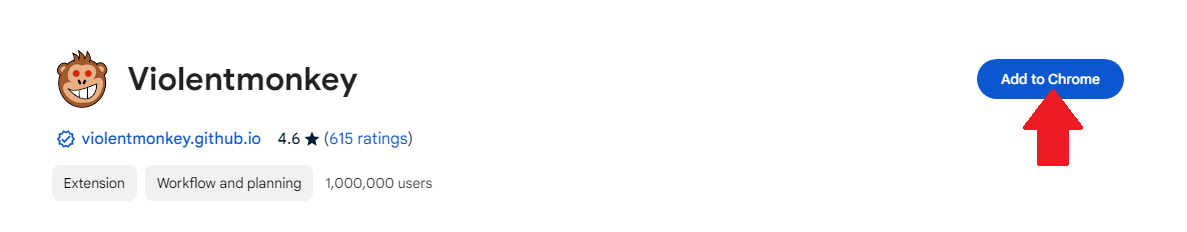
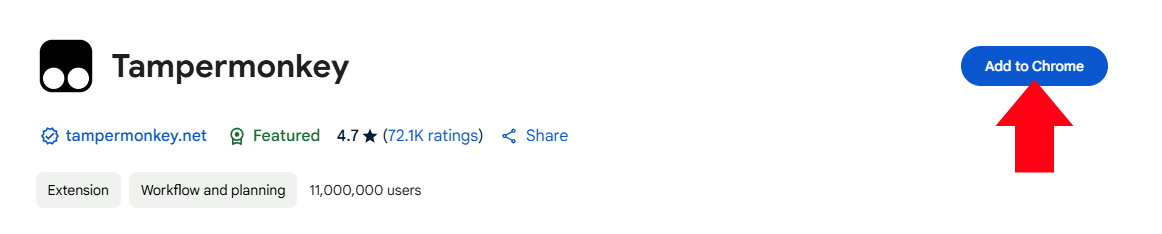
Migrated to Tampermonkey

diff --git a/install/achieve.html b/install/achieve.html
@@ -6,7 +6,7 @@
 	<link rel="stylesheet" href="style.css" type="text/css">
 </head>
 <body>
-	<a id="logo" href="/x">
+	<a id="logo" href="/mods">
 		<h1>XMODS</h1>
 	</a>
 	<div id="grid">
@@ -22,7 +22,7 @@
 			<div>
 				<img id="step1-1" src="img/step1-1.png">
 				<div style="position: relative; width: 20vw; height: calc(28vw * (304/508)); float: left;">
-					<a id="link-1" href="https://chromewebstore.google.com/detail/violentmonkey/jinjaccalgkegednnccohejagnlnfdag" target="_blank">Install</a>
+					<a id="link-1" href="https://chromewebstore.google.com/detail/tampermonkey/dhdgffkkebhmkfjojejmpbldmpobfkfo" target="_blank">Install</a>
 				</div>
 				<img id="step1-2" src="img/step1-2.png">
 				<a class="next" href="#step2">Next 🡒</a>

diff --git a/install/blooket.html b/install/blooket.html
@@ -6,7 +6,7 @@
 	<link rel="stylesheet" href="style.css" type="text/css">
 </head>
 <body>
-	<a id="logo" href="/x">
+	<a id="logo" href="/mods">
 		<h1>XMODS</h1>
 	</a>
 	<div id="grid">
@@ -22,7 +22,7 @@
 			<div>
 				<img id="step1-1" src="img/step1-1.png">
 				<div style="position: relative; width: 20vw; height: calc(28vw * (304/508)); float: left;">
-					<a id="link-1" href="https://chromewebstore.google.com/detail/violentmonkey/jinjaccalgkegednnccohejagnlnfdag" target="_blank">Install</a>
+					<a id="link-1" href="https://chromewebstore.google.com/detail/tampermonkey/dhdgffkkebhmkfjojejmpbldmpobfkfo" target="_blank">Install</a>
 				</div>
 				<img id="step1-2" src="img/step1-2.png">
 				<a class="next" href="#step2">Next 🡒</a>

diff --git a/install/chess.html b/install/chess.html
@@ -6,7 +6,7 @@
 	<link rel="stylesheet" href="style.css" type="text/css">
 </head>
 <body>
-	<a id="logo" href="/x">
+	<a id="logo" href="/mods">
 		<h1>XMODS</h1>
 	</a>
 	<div id="grid">
@@ -22,7 +22,7 @@
 			<div>
 				<img id="step1-1" src="img/step1-1.png">
 				<div style="position: relative; width: 20vw; height: calc(28vw * (304/508)); float: left;">
-					<a id="link-1" href="https://chromewebstore.google.com/detail/violentmonkey/jinjaccalgkegednnccohejagnlnfdag" target="_blank">Install</a>
+					<a id="link-1" href="https://chromewebstore.google.com/detail/tampermonkey/dhdgffkkebhmkfjojejmpbldmpobfkfo" target="_blank">Install</a>
 				</div>
 				<img id="step1-2" src="img/step1-2.png">
 				<a class="next" href="#step2">Next 🡒</a>

diff --git a/install/gimkit.html b/install/gimkit.html
@@ -6,7 +6,7 @@
 	<link rel="stylesheet" href="style.css" type="text/css">
 </head>
 <body>
-	<a id="logo" href="/x">
+	<a id="logo" href="/mods">
 		<h1>XMODS</h1>
 	</a>
 	<div id="grid">
@@ -22,7 +22,7 @@
 			<div>
 				<img id="step1-1" src="img/step1-1.png">
 				<div style="position: relative; width: 20vw; height: calc(28vw * (304/508)); float: left;">
-					<a id="link-1" href="https://chromewebstore.google.com/detail/violentmonkey/jinjaccalgkegednnccohejagnlnfdag" target="_blank">Install</a>
+					<a id="link-1" href="https://chromewebstore.google.com/detail/tampermonkey/dhdgffkkebhmkfjojejmpbldmpobfkfo" target="_blank">Install</a>
 				</div>
 				<img id="step1-2" src="img/step1-2.png">
 				<a class="next" href="#step2">Next 🡒</a>

diff --git a/install/krunker.html b/install/krunker.html
@@ -6,7 +6,7 @@
 	<link rel="stylesheet" href="style.css" type="text/css">
 </head>
 <body>
-	<a id="logo" href="/x">
+	<a id="logo" href="/mods">
 		<h1>XMODS</h1>
 	</a>
 	<div id="grid">
@@ -22,7 +22,7 @@
 			<div>
 				<img id="step1-1" src="img/step1-1.png">
 				<div style="position: relative; width: 20vw; height: calc(28vw * (304/508)); float: left;">
-					<a id="link-1" href="https://chromewebstore.google.com/detail/violentmonkey/jinjaccalgkegednnccohejagnlnfdag" target="_blank">Install</a>
+					<a id="link-1" href="https://chromewebstore.google.com/detail/tampermonkey/dhdgffkkebhmkfjojejmpbldmpobfkfo" target="_blank">Install</a>
 				</div>
 				<img id="step1-2" src="img/step1-2.png">
 				<a class="next" href="#step2">Next 🡒</a>

diff --git a/install/venge.html b/install/venge.html
@@ -6,7 +6,7 @@
 	<link rel="stylesheet" href="style.css" type="text/css">
 </head>
 <body>
-	<a id="logo" href="/x">
+	<a id="logo" href="/mods">
 		<h1>XMODS</h1>
 	</a>
 	<div id="grid">
@@ -22,7 +22,7 @@
 			<div>
 				<img id="step1-1" src="img/step1-1.png">
 				<div style="position: relative; width: 20vw; height: calc(28vw * (304/508)); float: left;">
-					<a id="link-1" href="https://chromewebstore.google.com/detail/violentmonkey/jinjaccalgkegednnccohejagnlnfdag" target="_blank">Install</a>
+					<a id="link-1" href="https://chromewebstore.google.com/detail/tampermonkey/dhdgffkkebhmkfjojejmpbldmpobfkfo" target="_blank">Install</a>
 				</div>
 				<img id="step1-2" src="img/step1-2.png">
 				<a class="next" href="#step2">Next 🡒</a>

diff --git a/install/youtube.html b/install/youtube.html
@@ -6,7 +6,7 @@
 	<link rel="stylesheet" href="style.css" type="text/css">
 </head>
 <body>
-	<a id="logo" href="/x">
+	<a id="logo" href="/mods">
 		<h1>XMODS</h1>
 	</a>
 	<div id="grid">
@@ -22,7 +22,7 @@
 			<div>
 				<img id="step1-1" src="img/step1-1.png">
 				<div style="position: relative; width: 20vw; height: calc(28vw * (304/508)); float: left;">
-					<a id="link-1" href="https://chromewebstore.google.com/detail/violentmonkey/jinjaccalgkegednnccohejagnlnfdag" target="_blank">Install</a>
+					<a id="link-1" href="https://chromewebstore.google.com/detail/tampermonkey/dhdgffkkebhmkfjojejmpbldmpobfkfo" target="_blank">Install</a>
 				</div>
 				<img id="step1-2" src="img/step1-2.png">
 				<a class="next" href="#step2">Next 🡒</a>
